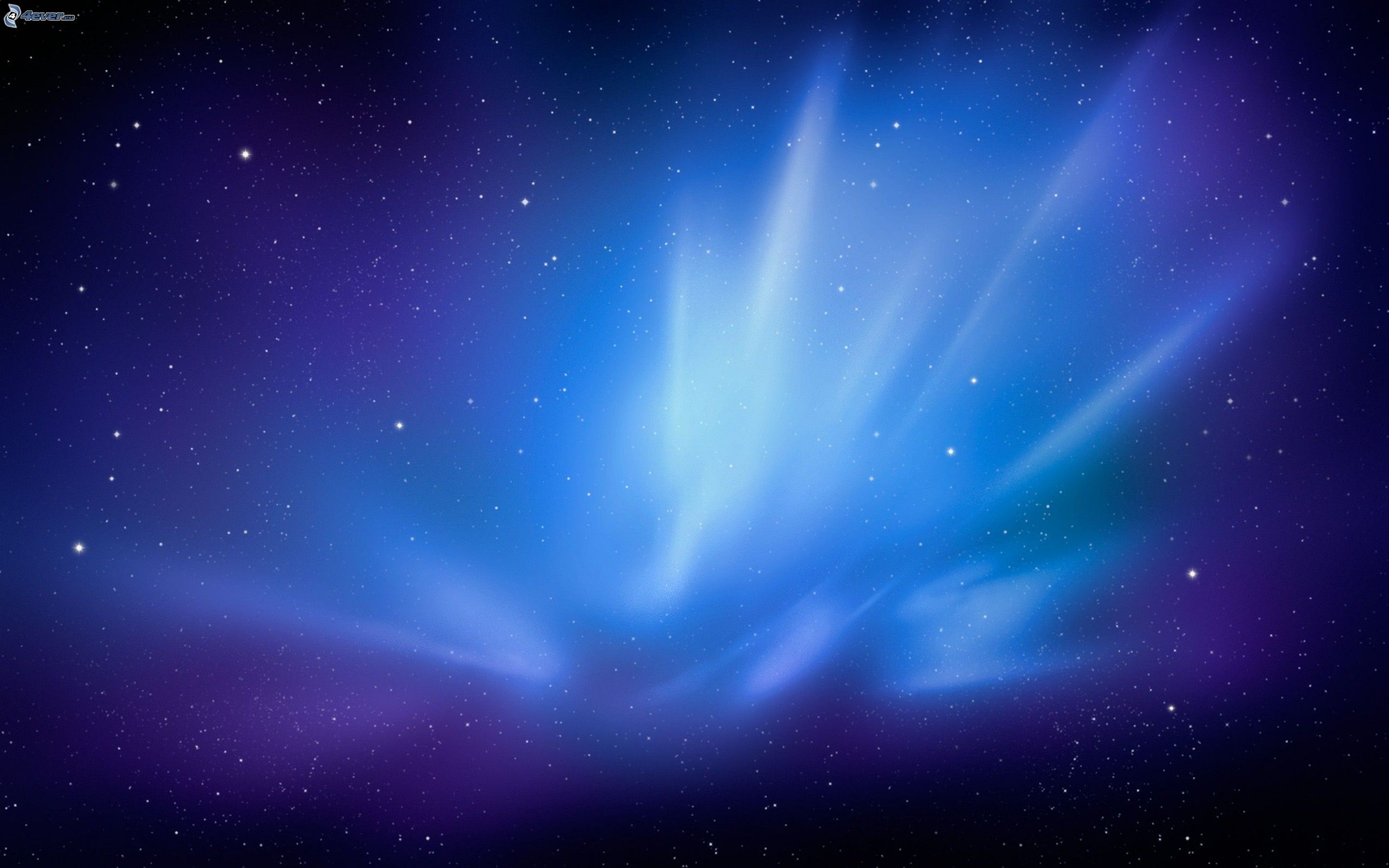
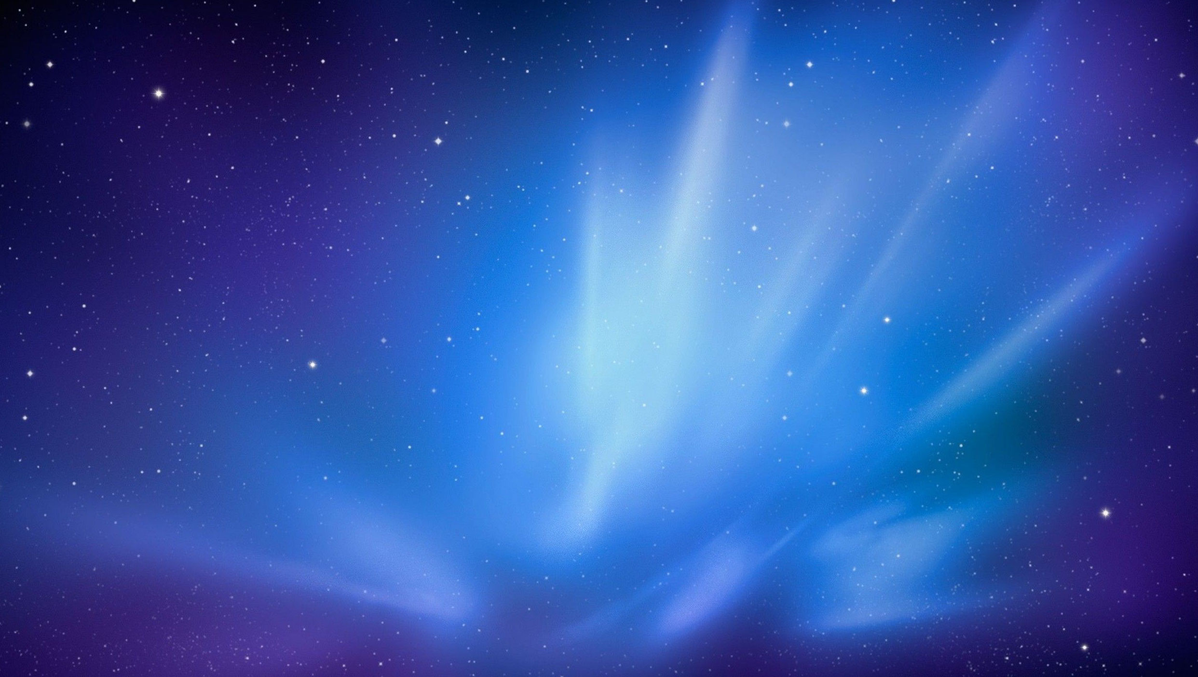
modificaciones vista

diff --git a/css/reset.css b/css/reset.css
@@ -1,0 +1,48 @@
+/* http://meyerweb.com/eric/tools/css/reset/ 
+   v2.0 | 20110126
+   License: none (public domain)
+*/
+
+html, body, div, span, applet, object, iframe,
+h1, h2, h3, h4, h5, h6, p, blockquote, pre,
+a, abbr, acronym, address, big, cite, code,
+del, dfn, em, img, ins, kbd, q, s, samp,
+small, strike, strong, sub, sup, tt, var,
+b, u, i, center,
+dl, dt, dd, ol, ul, li,
+fieldset, form, label, legend,
+table, caption, tbody, tfoot, thead, tr, th, td,
+article, aside, canvas, details, embed, 
+figure, figcaption, footer, header, hgroup, 
+menu, nav, output, ruby, section, summary,
+time, mark, audio, video {
+	margin: 0;
+	padding: 0;
+	border: 0;
+	font-size: 100%;
+	font: inherit;
+	vertical-align: baseline;
+}
+/* HTML5 display-role reset for older browsers */
+article, aside, details, figcaption, figure, 
+footer, header, hgroup, menu, nav, section {
+	display: block;
+}
+body {
+	line-height: 1;
+}
+ol, ul {
+	list-style: none;
+}
+blockquote, q {
+	quotes: none;
+}
+blockquote:before, blockquote:after,
+q:before, q:after {
+	content: '';
+	content: none;
+}
+table {
+	border-collapse: collapse;
+	border-spacing: 0;
+}

diff --git a/js/script.js b/js/script.js
@@ -12,4 +12,16 @@ if(textoIngresado != compararMinuscula ){
     return mensajeError;
 }};
 
-
+/*
+function codificar(txtaCodificar,dato1, dato2){
+    var text = txtaCodificar;
+    console.log(text);
+        for(var i = 0 ;i < encriptacion.length ;i++){
+        textoEncriptado = text.replaceAll(encriptacion[i].dato1,encriptacion[i].dato2);
+        console.log(dato1)
+        console.log(dato2)
+        text = textoEncriptado;
+        console.log(text);
+    }
+    return text;
+}*/

diff --git a/js/encriptar.js b/js/encriptar.js
@@ -20,7 +20,13 @@ var text = textoIngresado;
     }
         
 //colocar mensaje en msg
+/*
+var dato1 = "letra";
+var dato2 = "clave";
+
+txtEncriptado.value = codificar(textoIngresado,dato1,dato2);
+
+*/
+
 txtEncriptado.value = textoEncriptado;
 });
-
-    

diff --git a/css/style.css b/css/style.css
@@ -7,7 +7,7 @@
 body {
   background-color:lightskyblue;
   font-family: Verdana, Geneva, Tahoma, sans-serif;
-  background-image: url("../img/aurora-polar.jpg");
+  background: url("../img/aurora-polar.jpg") center no-repeat;
 }
 .main {
   width: 80vw;
